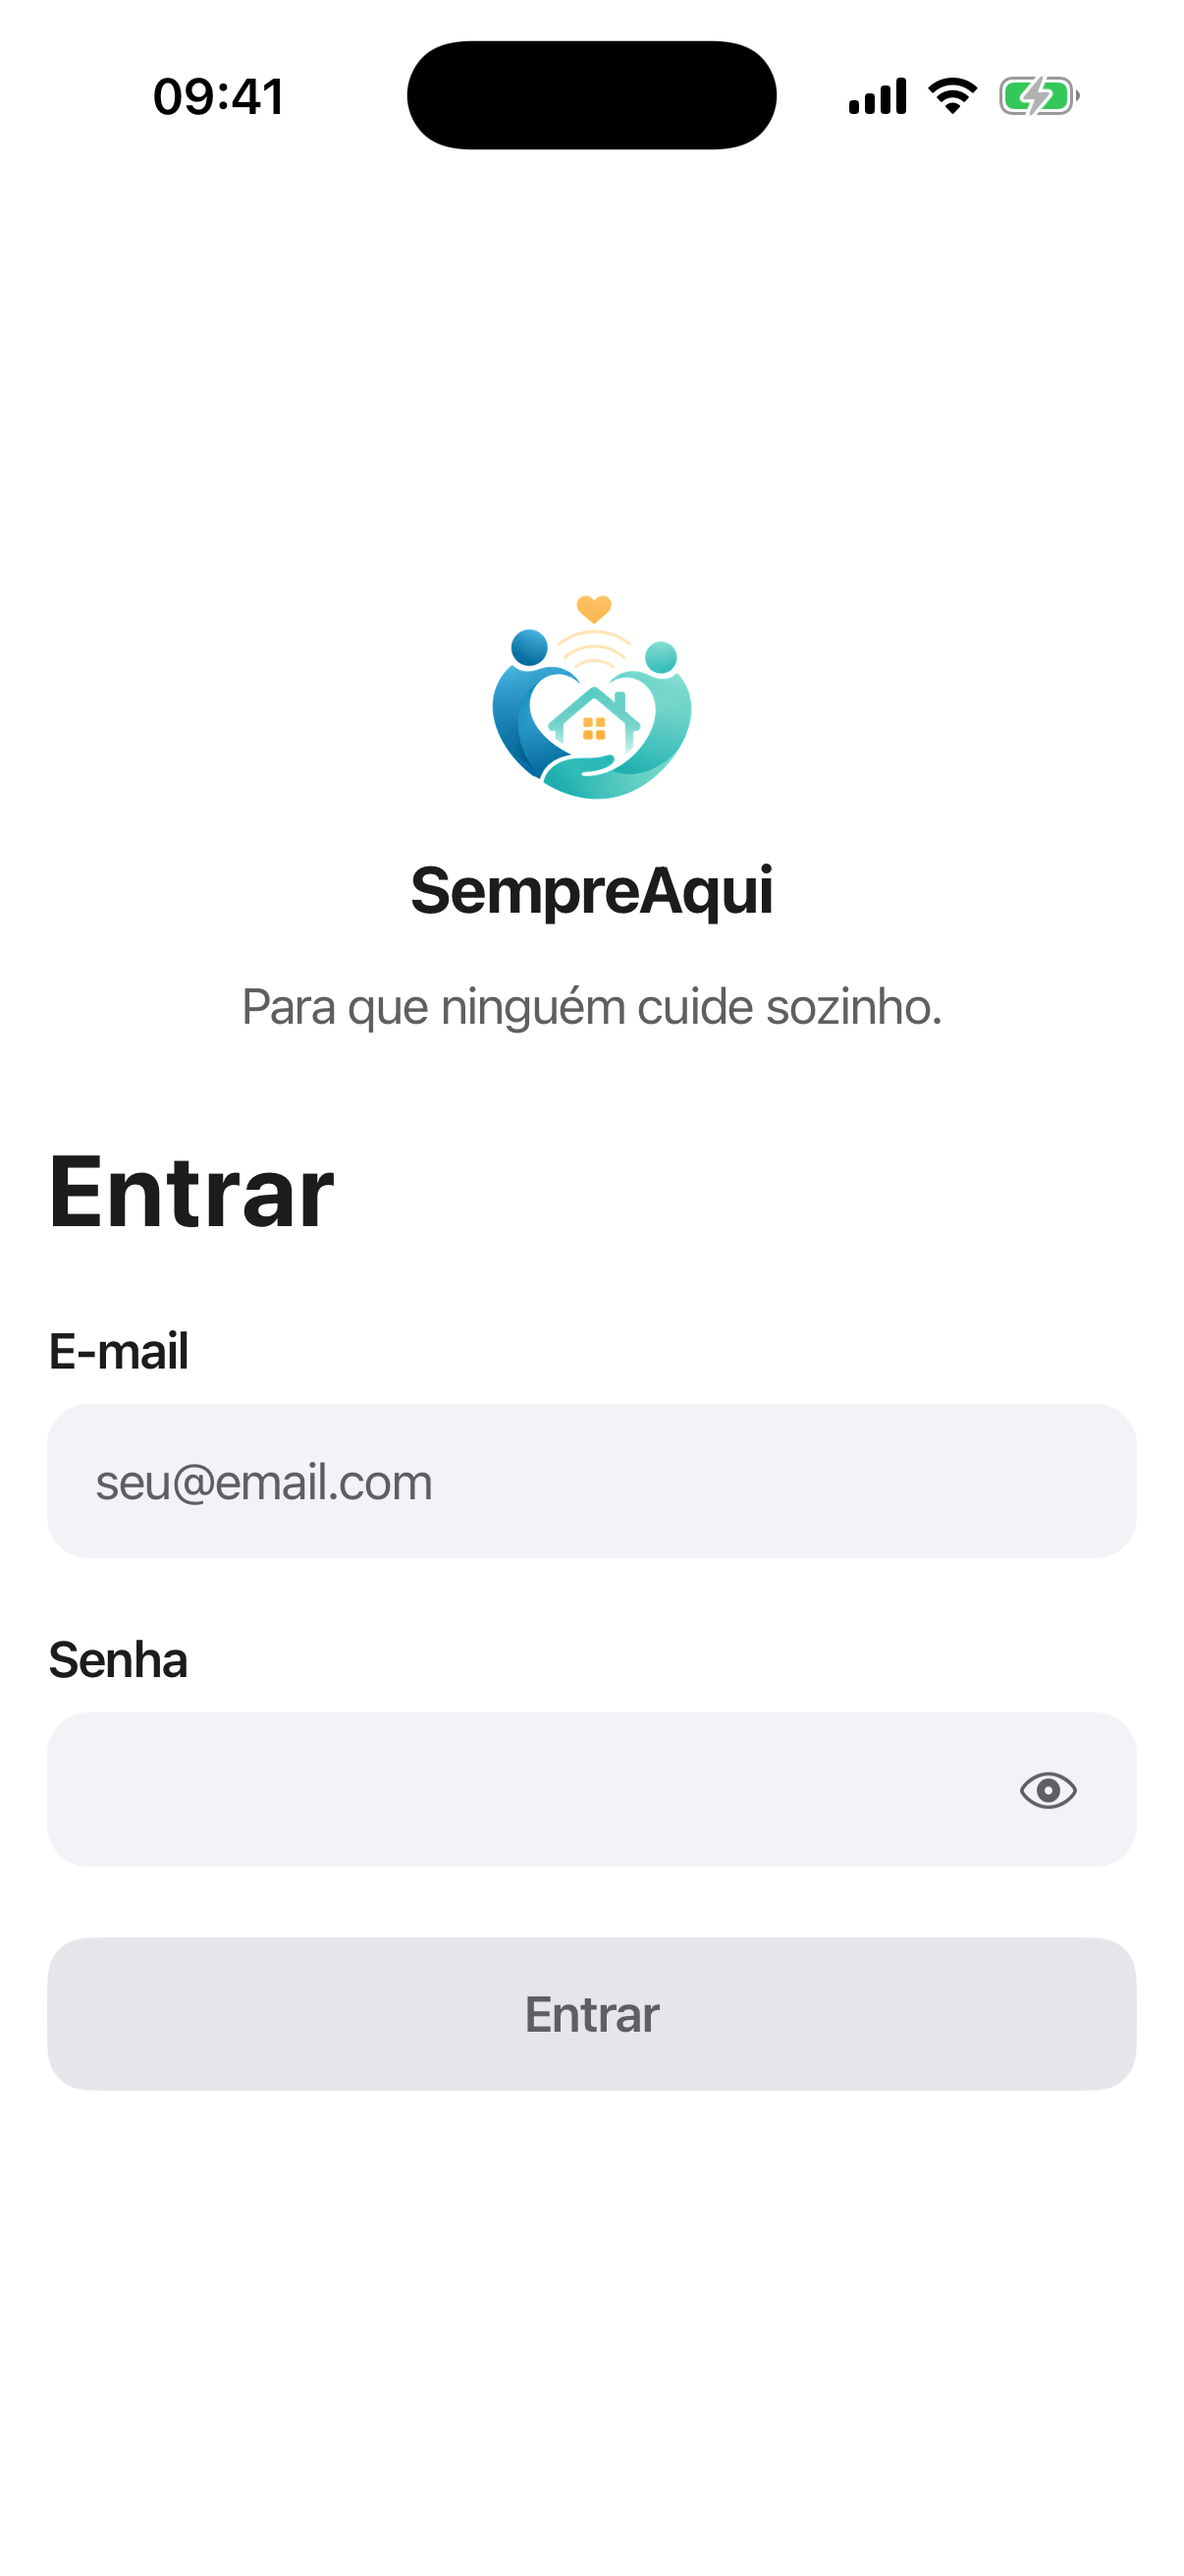
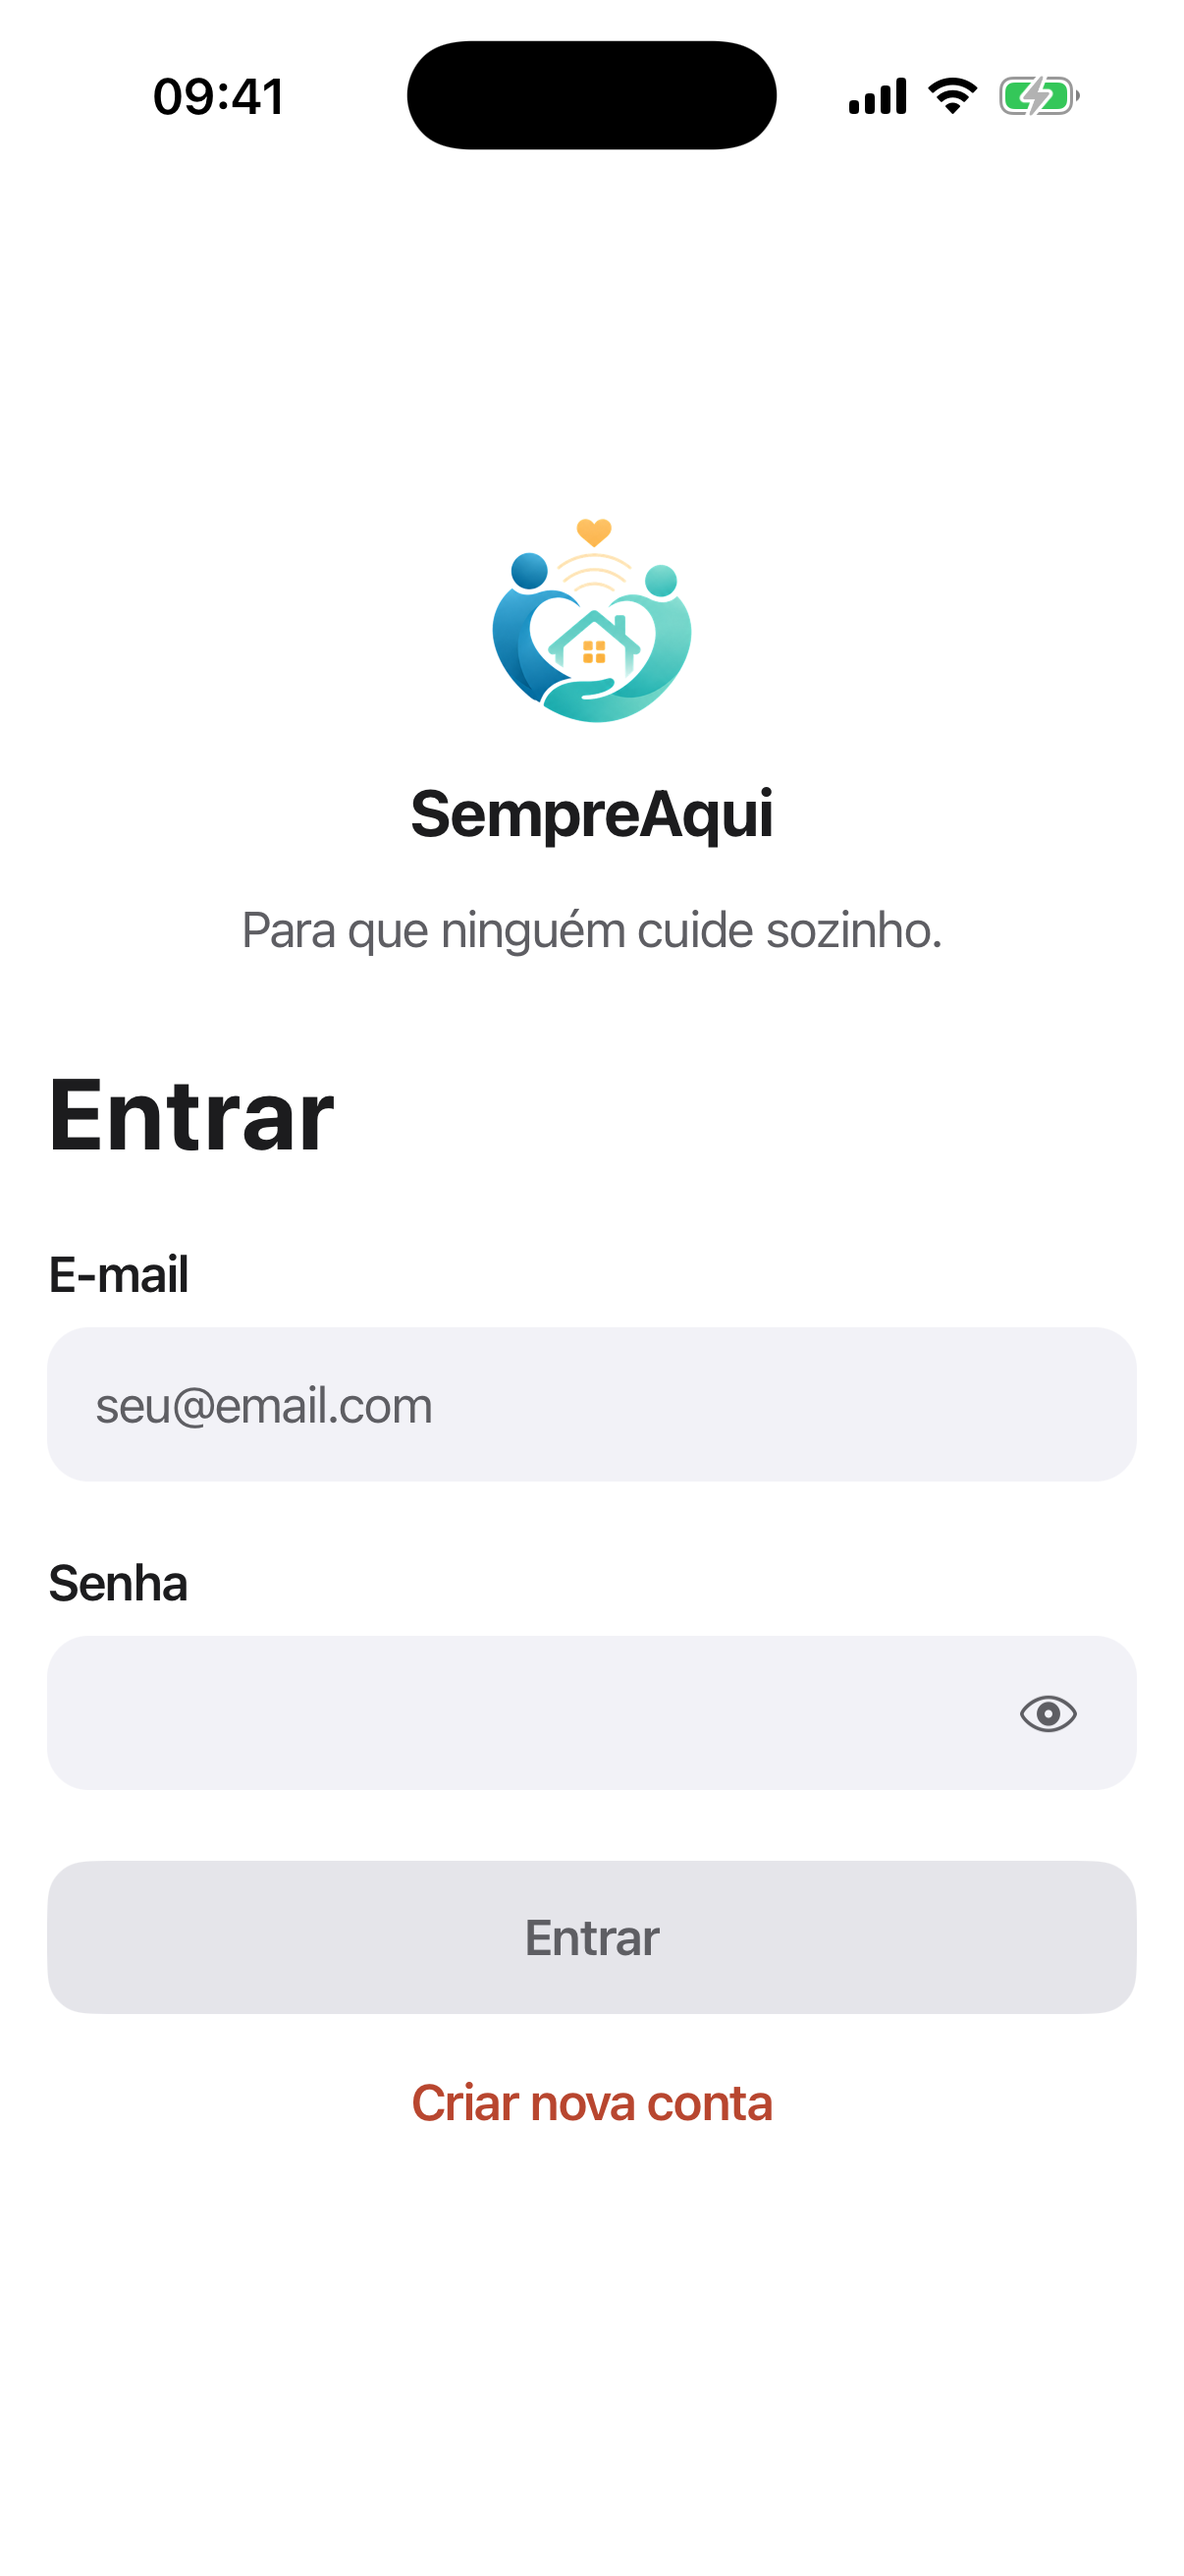
Documenta cadastro e atualiza capturas de autenticação

Changed region(s): [[0.0307, 0.6487, 0.9818, 0.8341], [0.0307, 0.1854, 0.7977, 0.6487]]

diff --git a/app/README.md b/app/README.md
@@ -56,7 +56,7 @@ src/
 
 ## Login com e-mail e senha
 
-Configure `EXPO_PUBLIC_SUPABASE_URL` e `EXPO_PUBLIC_SUPABASE_PUBLISHABLE_KEY` no `app/.env` e mantenha o backend configurado para o mesmo projeto Supabase. Em Authentication → Providers, habilite Email. Para esta etapa, crie uma conta de teste em Authentication → Users → Add user, com e-mail confirmado e senha. O app usa contas existentes; cadastro e recuperação ficam para a próxima etapa.
+Configure `EXPO_PUBLIC_SUPABASE_URL` e `EXPO_PUBLIC_SUPABASE_PUBLISHABLE_KEY` no `app/.env` e mantenha o backend configurado para o mesmo projeto Supabase. Em Authentication → Providers, habilite Email. A tela Entrar tem o botão Criar nova conta. O cadastro coleta nome, e-mail, senha e aceite dos termos. O backend cria o usuário pelo endpoint administrativo do Supabase com e-mail confirmado, sem enviar verificação, e o app entra com a senha. A chave administrativa fica somente no servidor. Recuperação de senha continua pendente.
 
 Ao abrir, a tela Entrar pede e-mail e senha. Depois da autenticação, `POST /sessao` mantém a entrada/criação da família já existente; o primeiro acesso segue o onboarding. As próximas aberturas restauram a sessão. Ajustes → Conta → Sair da conta pede confirmação.
 
@@ -69,3 +69,7 @@ Verificação automatizada: `npm run test:login`, `npm run typecheck` e `npm run
 `src/lib/carregamento.ts` coordena as leituras em paralelo e compartilha atualizações simultâneas. A IA local inicializa separadamente. Hoje, Memórias e Família mostram progresso, preservam o conteúdo já disponível e oferecem nova tentativa em caso de falha. Puxar essas telas atualiza os dados; o app também atualiza ao voltar ao primeiro plano e recuperar a rede. A sessão tem uma tela de restauração com recuperação de erro.
 
 Consultas e abertura da sessão têm limite de 20 segundos; envios e operações de IA mantêm até 120 segundos. Execute `npm run test:carregamento` para testar concorrência, recuperação e cancelamento por tempo limite.
+
+### Cadastro sem confirmação de e-mail
+
+`POST /auth/cadastro` valida nome, e-mail, senha (8 a 128 caracteres, uma letra e um número), aceite obrigatório e versão dos termos. O aceite recebe data do servidor e fica em `auth.users.app_metadata`; o nome fica em `user_metadata` e é usado na primeira entrada na família. O consentimento de saúde continua separado no onboarding. A rota usa `SUPABASE_SERVICE_ROLE_KEY` ou `SUPABASE_SECRET_KEY`, nunca expostas ao app, e limita tentativas por IP/e-mail em memória (uma instância local). Usuários existentes não são alterados nem confirmados por essa rota.

diff --git a/docs/arquitetura.md b/docs/arquitetura.md
@@ -113,8 +113,14 @@ design/       logo e assets
 
 ## Autenticação básica
 
-O app autentica e-mail e senha no Supabase Auth (`signInWithPassword`). O backend continua validando o JWT pelo JWKS e usando `POST /sessao` para localizar ou criar a família. Não há novas tabelas ou endpoints nesta etapa. Não são criadas novas contas anônimas pelo app.
+O app autentica e-mail e senha no Supabase Auth (`signInWithPassword`). O backend continua validando o JWT pelo JWKS e usando `POST /sessao` para localizar ou criar a família. O login reutiliza as tabelas do Supabase Auth; o endpoint de cadastro é descrito abaixo. Não são criadas novas contas anônimas pelo app.
 
 A sessão nativa usa `expo-secure-store`, com renovação automática do cliente Supabase enquanto o app está ativo. O Expo Router protege todas as telas internas até a autenticação e a família estarem prontas. A saída usa escopo local, encerrando a sessão deste dispositivo. Na web a sessão fica em memória.
 
 As cópias offline, filas e o estado de onboarding são identificados por usuário; ao mudar de conta, os estados em memória são reiniciados. Áudios novos têm pasta por conta. Dados locais do fluxo anônimo anterior não são associados automaticamente a outra conta. A implantação deve manter `ACEITAR_X_FAMILIA=0`; `FAMILIA_DEMO_PARA_NOVOS` serve exclusivamente para demonstrações fictícias.
+
+### Cadastro
+
+O cadastro passa por `POST /auth/cadastro`: o servidor valida os campos e o aceite, cria o usuário no Supabase Auth com `email_confirm: true` e não envia e-mail. O app então usa o login por senha já existente. O nome vai em `user_metadata`; a data do servidor e a versão do aceite ficam em `app_metadata`, que o usuário não pode alterar. Não é necessária migração de tabelas. A autorização para dados de saúde continua no onboarding, por finalidade.
+
+A rota administrativa usa somente segredos do backend e não atualiza contas duplicadas. Respostas de validação nunca ecoam os campos do cadastro. O limite de tentativas atual é local ao processo; ao escalar para várias instâncias, deve usar armazenamento compartilhado.

diff --git a/design/screens/auth/README.md b/design/screens/auth/README.md
@@ -5,3 +5,6 @@
 Verificados: abertura da tela no simulador e oito testes de lógica com serviços simulados, incluindo restauração, credenciais incorretas, saída e isolamento das cópias offline. TypeScript e lint passaram. Entrada real com conta Supabase, VoiceOver/TalkBack e preenchimento automático em ambos os sistemas ainda precisam de validação manual.
 
 A instalação do SecureStore concluiu o download, mas o postinstall apontou falha no patch preexistente `expo-modules-jsi+58.0.22.patch`. O patch não foi alterado nesta etapa. A tela foi aberta no Expo Go; uma nova compilação nativa não foi validada.
+
+
+Atualização de cadastro: `criar-conta-claro.png` registra a tela com nome, e-mail, senha e aceite; o botão fica no fim da rolagem. Cadastro real e login imediato foram verificados com uma conta fictícia no Supabase, removida ao final. Nome e aceite versionado foram conferidos. A compilação Release foi instalada no iPhone conectado.

diff --git a/CHANGELOG.md b/CHANGELOG.md
@@ -2,6 +2,13 @@
 
 O que mudou em cada ciclo, do mais recente para o mais antigo.
 
+## Cadastro pelo app (10 de novembro de 2026)
+
+- Botão Criar nova conta na entrada; cadastro com nome, e-mail, senha, requisitos visíveis e aceite dos termos.
+- Termos e privacidade acessíveis antes de entrar. Validação no app e no servidor, erro de e-mail duplicado e proteção contra envio repetido.
+- Cadastro administrativo no Supabase sem confirmação de e-mail, seguido de login e onboarding. Nome e aceite versionado registrados.
+- Testes de cadastro, validação, duplicidade e limite de tentativas.
+
 ## Carregamento com feedback e nova tentativa (10 de novembro de 2026)
 
 - Informações da família carregam em paralelo, sem esperar a checagem da IA local ou a personalização da conversa.

diff --git a/docs/roadmap.md b/docs/roadmap.md
@@ -127,5 +127,6 @@ Detalhes em [ia-no-aparelho.md](ia-no-aparelho.md).
 - [x] Separação das cópias e filas locais por conta
 - [x] Testes de lógica do login, restauração e saída
 - [ ] Validar entrada real, preenchimento automático e persistência em iOS e Android
-- [ ] Cadastro, recuperação de senha e migração de contas anônimas
+- [x] Cadastro com nome, e-mail, senha e aceite, sem confirmação de e-mail
+- [ ] Recuperação de senha e migração de contas anônimas
 - [ ] Pessoas cuidadas, múltiplos círculos e permissões do escopo ampliado
